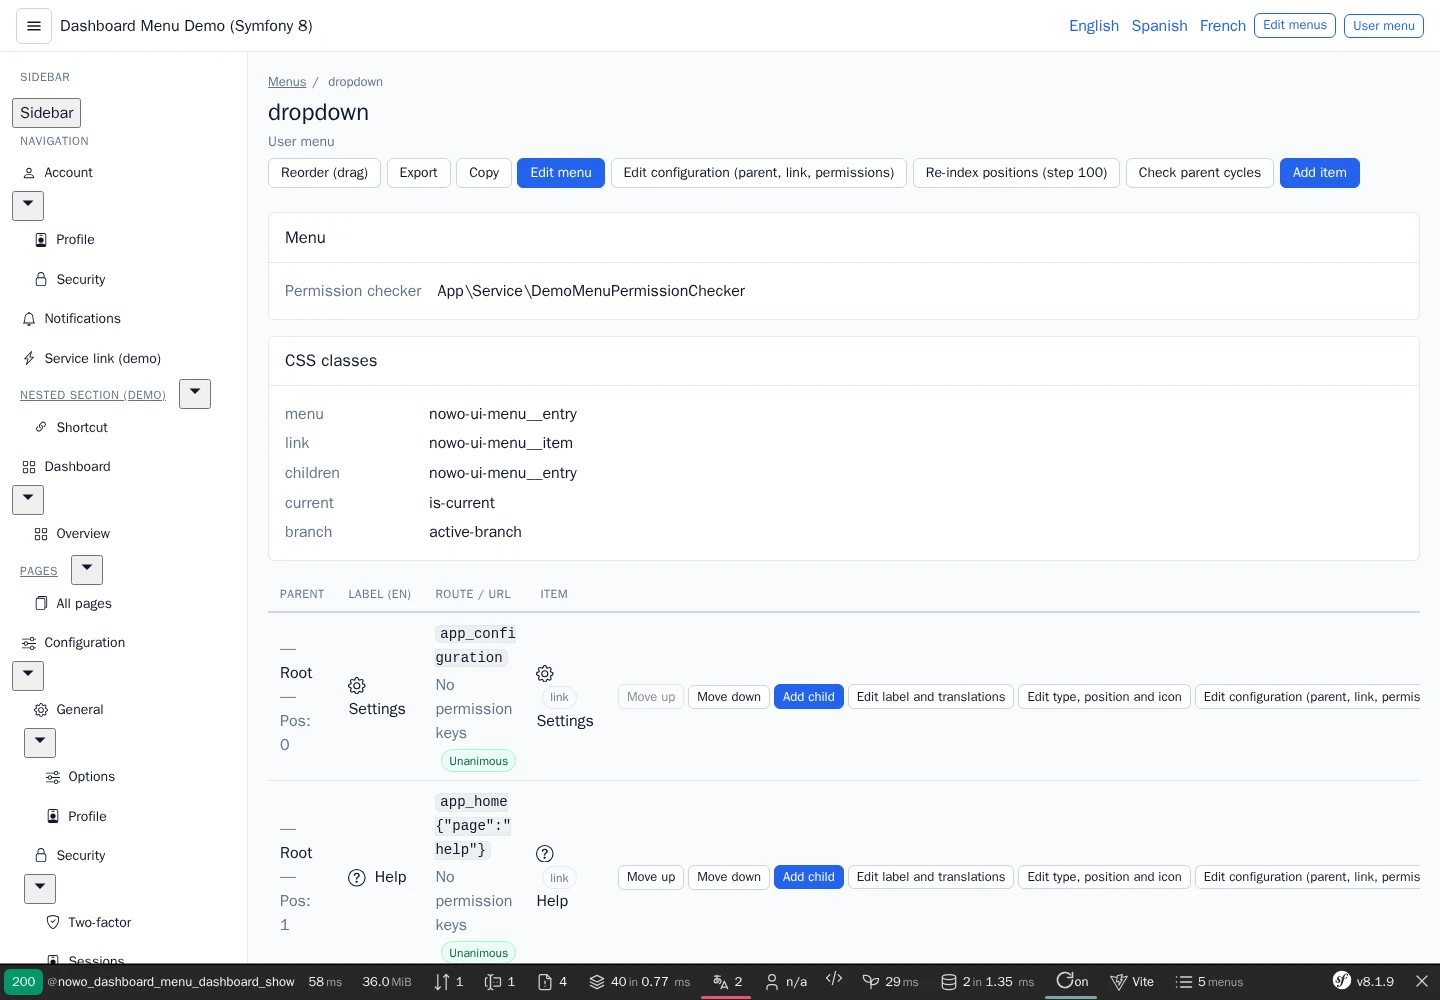
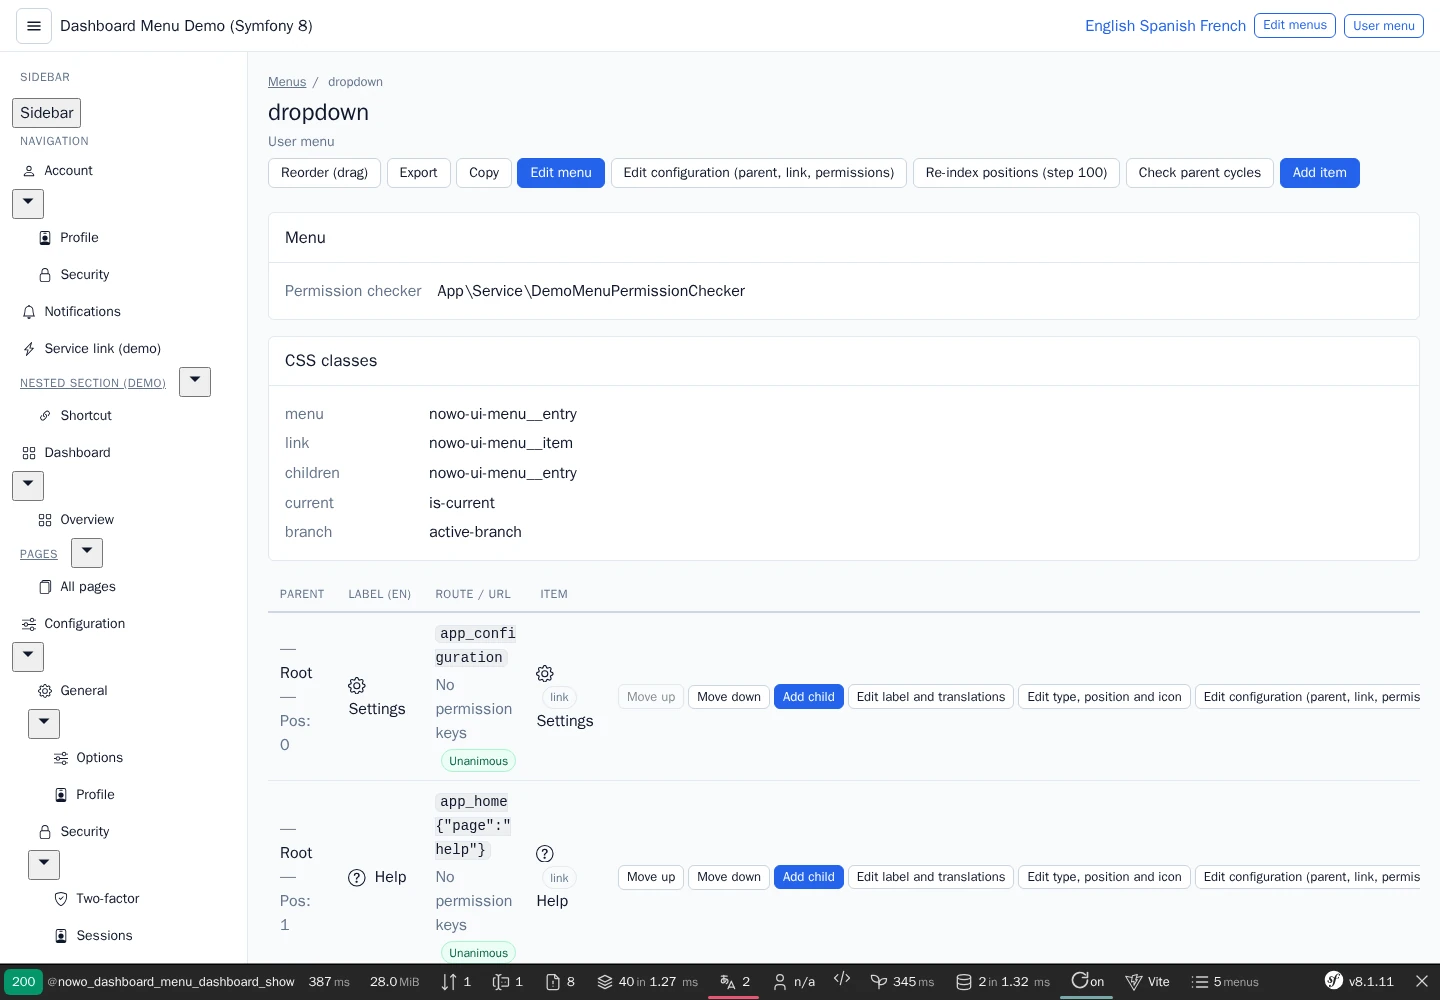
docs(demo): align demo with UiKit and FormKit

diff --git a/docs/CHANGELOG.md b/docs/CHANGELOG.md
@@ -132,6 +132,7 @@ and this project adheres to [Semantic Versioning](https://semver.org/spec/v2.0.0
 ### Changed
 
 - Requires `nowo-tech/transaction-doctrine` ^1.8.1 (fixes GHSA-9wh3-m3m5-jffx and GHSA-65w2-9r4h-848g).
+- Demo: aligned with UiKit (menus rendered with UiKit classes through one `_menu.html.twig` partial; the demo CSS is gone; FormKit `demo` profile).
 
 ## [2.24.0] - 2026-11-20
 
